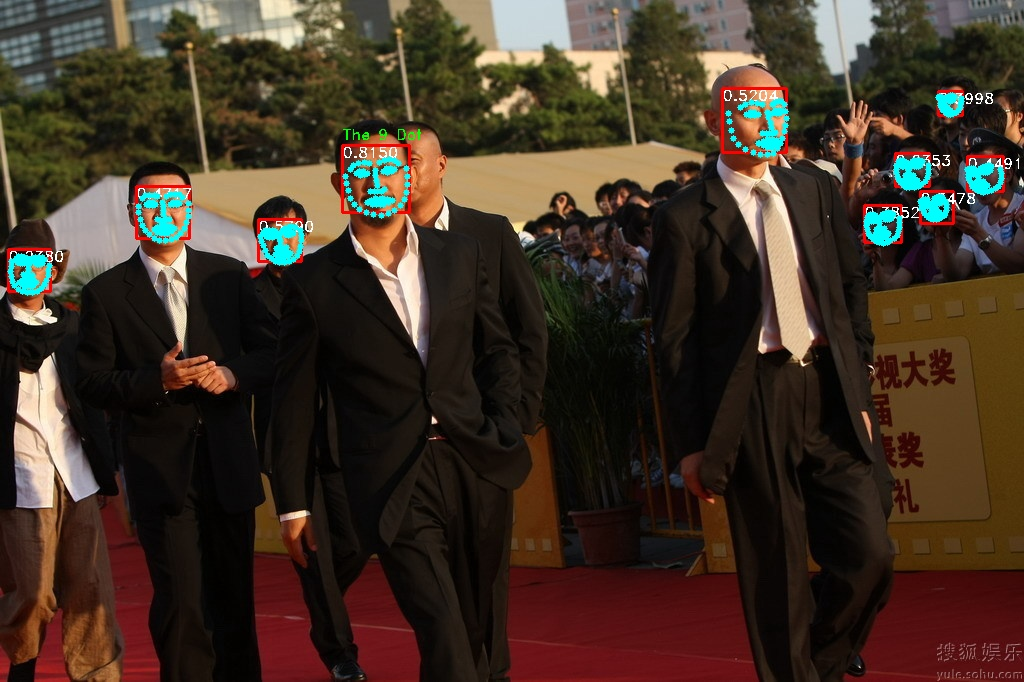
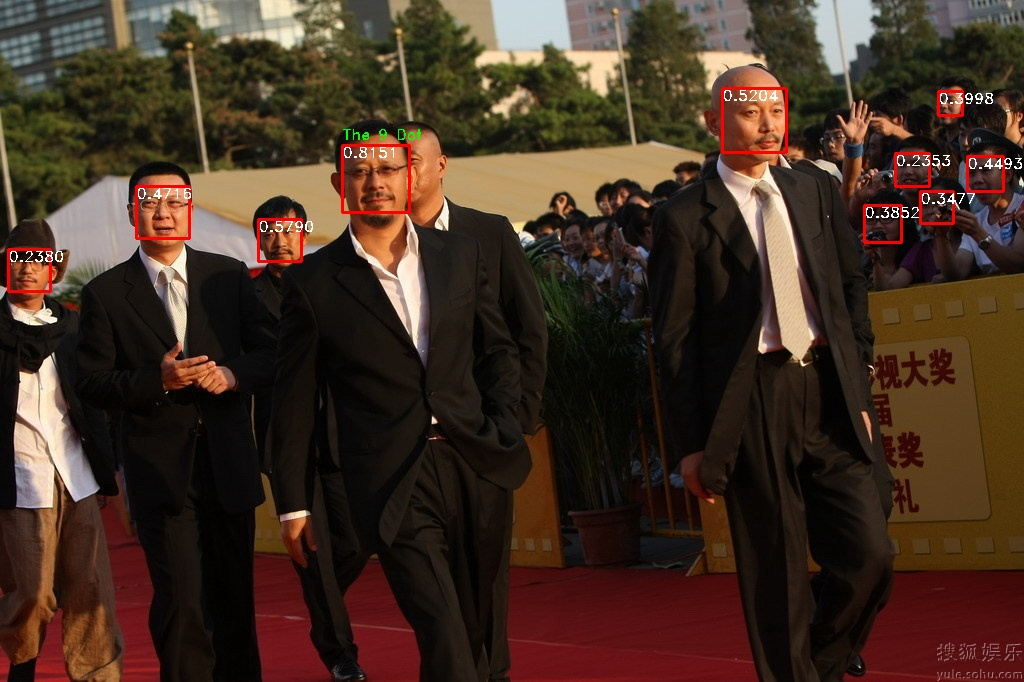
Update readme sample images

diff --git a/test_face.py b/test_face.py
@@ -87,8 +87,8 @@ for rect,score,landmark in zip(rectangles_batch[0],dists,landmarks):
         cv2.putText(img_wild, "The 9 Dot", (cx, cy-18),\
                     cv2.FONT_HERSHEY_DUPLEX, 0.5, (0, 255, 0))
 
-    for (x, y) in landmark:
-        cv2.circle(img_wild, (int(x), int(y)), 3, (255, 255, 0),-1)
+    # for (x, y) in landmark:
+    #     cv2.circle(img_wild, (int(x), int(y)), 1, (255, 255, 0),-1)
 
 name = "datas/imgs_results/vis_recog.jpg"
 cv2.imwrite(name, img_wild)

diff --git a/test_lamdmark.py b/test_lamdmark.py
@@ -50,8 +50,6 @@ landmarks = lm_extractor.predict(img, rectangles_batch[-1])
 
 
 for rect,score,landmark in zip(rectangles_batch[-1],probes_batch[-1],landmarks):
-    if score<0.4:
-        continue
     rect = list(map(int, rect))
     cv2.rectangle(img, (rect[0], rect[1]), (rect[2], rect[3]), (0, 0, 255), 2)
     cx = rect[0]

diff --git a/README.md b/README.md
@@ -9,14 +9,17 @@ OpenIVA implements varied mainstream facial recognition, object detection, segme
 - Supports TensorlayerX/ TensorRT/ onnxruntime
 3. High performance  
 - Achieves high performance on CPU/GPU/Ascend platforms, achieve inference speed above 3000it/s
-1. Asynchronous & multithreading
+4. Asynchronous & multithreading
 - Use multithreading and queue to achieve high device utilization for inference and pre/post-processing
-4. Lightweight service
+5. Lightweight service
 - Use Flask for lightweight intelligent application services
-5. Modular design 
+6. Modular design 
 - You can quickly start your intelligent analysis service, only need to replace the AI models
-6. GUI visualization tools  
+7. GUI visualization tools  
 - Start analysis tasks only by clicking buttons, and show visualized results in GUI windows, suitable for multiple tasks
+
+![alt Sample Face landmark](datas/imgs_results/vis_landmark.jpg)
+![alt Sample Face recognition](datas/imgs_results/vis_recog.jpg)
 
 # Performance benchmark
 ## Testing environments 
